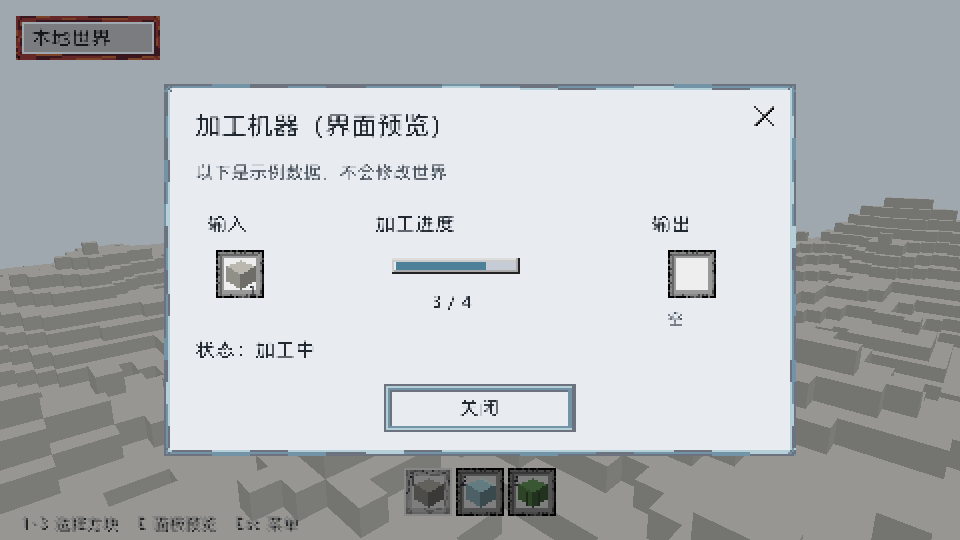
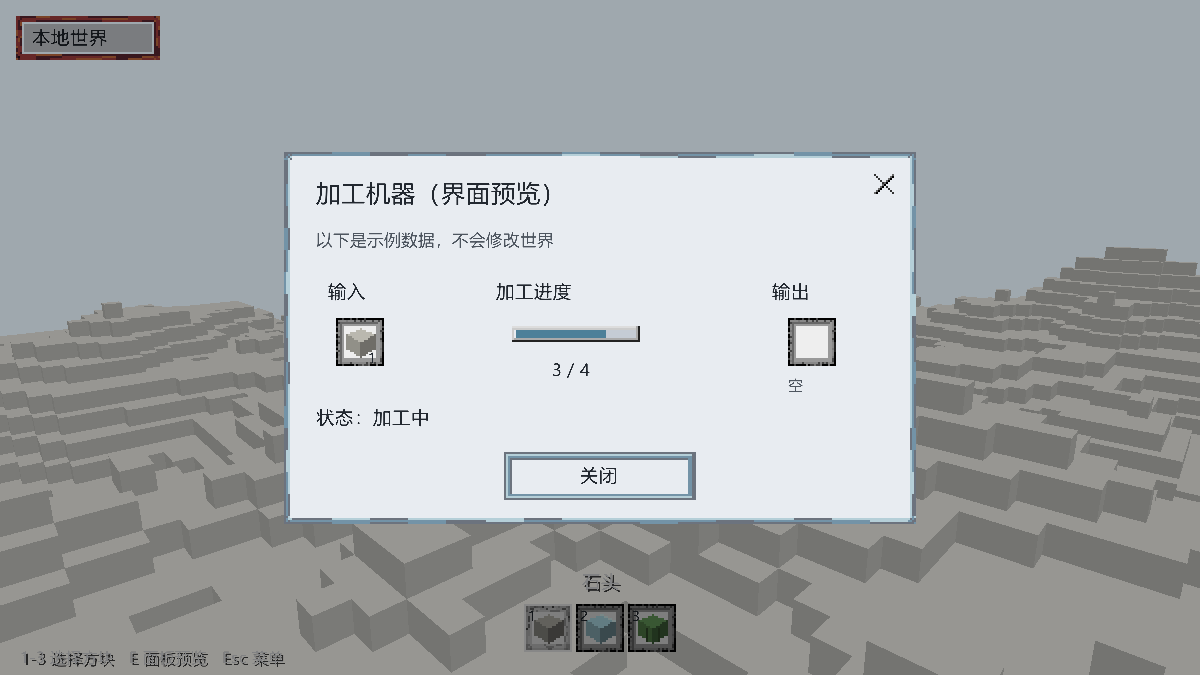
fix(client): rasterize the UI at native resolution
The UI canvas was logical (half or quarter the surface) magnified by the
GPU, so anti-aliased CJK glyphs turned to mush and sprites stayed chunky.
The canvas now matches the surface one to one: Canvas maps logical draw
rects onto scale-sized pixel blocks internally, glyphs rasterize at the
physical size through blend_px, and the overlay upload writes and
addresses the full physical extent -- the old write_texture size still
used the logical dims, which silently dropped every row past the first
logical block and left the bottom of the screen without UI. Doc figures
recaptured at 1200x675.

diff --git a/apps/client/src/ui/canvas.rs b/apps/client/src/ui/canvas.rs
@@ -61,24 +61,54 @@ impl Rect {
             && p[1] < self.y + self.h as i32
     }
 }
+/// Retained UI raster over physical pixels.
+///
+/// Draw calls take logical rects; every logical pixel lands as a
+/// `scale`x`scale` block so the nine-slice and fill math stay unchanged while
+/// the texture itself matches the surface one to one. Glyphs rasterize at the
+/// physical size and blend through [`Canvas::blend_px`], which keeps text
+/// crisp instead of magnifying anti-aliased logical pixels.
 pub struct Canvas {
+    /// Logical width; the pixel buffer is `width * scale` wide.
     pub width: u32,
+    /// Logical height.
     pub height: u32,
-    pub pixels: Vec<u8>,
+    /// Physical pixels per logical pixel.
+    pub scale: u32,
+    pixels: Vec<u8>,
 }
 impl Canvas {
-    pub fn new(width: u32, height: u32) -> Self {
+    pub fn new(width: u32, height: u32, scale: u32) -> Self {
+        let scale = scale.max(1);
         Self {
             width,
             height,
-            pixels: vec![0; (width * height * 4) as usize],
+            scale,
+            pixels: vec![0; (width * scale * height * scale * 4) as usize],
         }
     }
-    fn blend(&mut self, x: i32, y: i32, source: [u8; 4]) {
-        if x < 0 || y < 0 || x >= self.width as i32 || y >= self.height as i32 || source[3] == 0 {
+    /// Physical buffer width.
+    pub fn pixel_width(&self) -> u32 {
+        self.width * self.scale
+    }
+    /// Physical buffer height.
+    pub fn pixel_height(&self) -> u32 {
+        self.height * self.scale
+    }
+    /// Physical pixel bytes, for direct GPU upload.
+    pub fn as_pixels(&self) -> &[u8] {
+        &self.pixels
+    }
+    fn blend_px(&mut self, x: i32, y: i32, source: [u8; 4]) {
+        if x < 0
+            || y < 0
+            || x >= self.pixel_width() as i32
+            || y >= self.pixel_height() as i32
+            || source[3] == 0
+        {
             return;
         }
-        let i = ((y as u32 * self.width + x as u32) * 4) as usize;
+        let i = ((y as u32 * self.pixel_width() + x as u32) * 4) as usize;
         let dst = &mut self.pixels[i..i + 4];
         let sa = u32::from(source[3]);
         let da = u32::from(dst[3]);
@@ -88,6 +118,14 @@ impl Canvas {
                 ((u32::from(source[c]) * sa * 255 + u32::from(dst[c]) * da * (255 - sa)) / a) as u8;
         }
         dst[3] = a.div_ceil(255) as u8;
+    }
+    fn blend(&mut self, x: i32, y: i32, source: [u8; 4]) {
+        let s = self.scale as i32;
+        for dy in 0..s {
+            for dx in 0..s {
+                self.blend_px(x * s + dx, y * s + dy, source);
+            }
+        }
     }
     pub fn fill(&mut self, rect: Rect, color: [u8; 4]) {
         for y in rect.y.max(0)..(rect.y + rect.h as i32).min(self.height as i32) {
@@ -148,6 +186,8 @@ pub struct Text {
     font: FontVec,
     glyphs: BTreeMap<(char, u16), Raster>,
     pub chinese: bool,
+    /// Physical pixels per logical point of requested text size.
+    scale: u16,
 }
 impl Text {
     pub fn load() -> Result<Self, String> {
@@ -176,11 +216,17 @@ impl Text {
                     chinese: font.glyph_id('\u{52a0}').0 != 0,
                     font,
                     glyphs: BTreeMap::new(),
+                    scale: 1,
                 });
             }
         }
         Err("UI font unavailable; set TORSE_UI_FONT to a TTF, OTF or TTC file".into())
     }
+    /// Set the physical pixel multiplier for subsequent measure and draw.
+    pub fn set_scale(&mut self, scale: u16) {
+        self.scale = scale.max(1);
+    }
+
     fn raster(&mut self, c: char, size: u16) -> &Raster {
         if self.glyphs.len() >= 1024 {
             self.glyphs.clear();
@@ -224,11 +270,13 @@ impl Text {
         })
     }
     pub fn measure(&mut self, value: &str, size: u16) -> u32 {
-        value
+        let scaled = size.saturating_mul(self.scale);
+        let total: u32 = value
             .chars()
             .take(160)
-            .map(|c| self.raster(c, size).advance.max(0) as u32)
-            .sum()
+            .map(|c| self.raster(c, scaled).advance.max(0) as u32)
+            .sum();
+        total / u32::from(self.scale)
     }
     pub fn draw(
         &mut self,
@@ -238,23 +286,32 @@ impl Text {
         size: u16,
         color: [u8; 4],
     ) {
-        let mut x = rect.x;
+        let scale = u16::try_from(canvas.scale).unwrap_or(1).max(self.scale);
+        let scaled = size.saturating_mul(scale);
+        let s = i32::try_from(canvas.scale).unwrap_or(1);
+        let prect = Rect {
+            x: rect.x * s,
+            y: rect.y * s,
+            w: rect.w * canvas.scale,
+            h: rect.h * canvas.scale,
+        };
+        let mut x = prect.x;
         for c in value.chars().take(160) {
-            let glyph = self.raster(c, size);
-            if x + glyph.advance > rect.x + rect.w as i32 {
+            let glyph = self.raster(c, scaled);
+            if x + glyph.advance > prect.x + prect.w as i32 {
                 break;
             }
             for gy in 0..glyph.height {
                 for gx in 0..glyph.width {
-                    let y = rect.y + glyph.y + gy as i32;
-                    if y < rect.y || y >= rect.y + rect.h as i32 {
+                    let y = prect.y + glyph.y + gy as i32;
+                    if y < prect.y || y >= prect.y + prect.h as i32 {
                         continue;
                     }
                     let mut ink = color;
                     ink[3] = (u16::from(color[3])
                         * u16::from(glyph.pixels[(gy * glyph.width + gx) as usize])
                         / 255) as u8;
-                    canvas.blend(x + glyph.x + gx as i32, y, ink);
+                    canvas.blend_px(x + glyph.x + gx as i32, y, ink);
                 }
             }
             x += glyph.advance;
@@ -283,7 +340,7 @@ mod tests {
             ]
             .concat(),
         };
-        let mut canvas = Canvas::new(9, 9);
+        let mut canvas = Canvas::new(9, 9, 1);
         canvas.sprite(&sprite, Rect::new(0, 0, 9, 9), 1);
         assert_eq!(&canvas.pixels[..4], &[255, 0, 0, 255]);
         assert_eq!(&canvas.pixels[32..36], &[0, 0, 255, 255]);
@@ -297,8 +354,34 @@ mod tests {
             height: 1,
             pixels: [[255, 255, 255, 255]; 4].concat(),
         };
-        let mut canvas = Canvas::new(4, 1);
+        let mut canvas = Canvas::new(4, 1, 1);
         canvas.progress(&sprite, 0, 0, 0.5, [255; 4]);
         assert_eq!(canvas.pixels.iter().filter(|p| **p == 255).count(), 8);
+    }
+
+    #[test]
+    fn scaled_canvas_maps_logical_pixels_to_blocks() {
+        let mut canvas = Canvas::new(2, 1, 2);
+        assert_eq!(canvas.pixel_width(), 4);
+        assert_eq!(canvas.pixel_height(), 2);
+        canvas.fill(Rect::new(0, 0, 1, 1), [255, 0, 0, 255]);
+        // One logical pixel becomes a 2x2 block; the rest stays transparent.
+        assert_eq!(
+            canvas
+                .pixels
+                .chunks_exact(4)
+                .filter(|p| *p == [255, 0, 0, 255])
+                .count(),
+            4
+        );
+        // Row 0: the red block covers columns 0 and 1, columns 2 and 3 stay
+        // transparent; row 1 mirrors row 0.
+        assert_eq!(&canvas.pixels[..4], &[255, 0, 0, 255]);
+        assert_eq!(&canvas.pixels[4..8], &[255, 0, 0, 255]);
+        assert_eq!(&canvas.pixels[8..12], &[0, 0, 0, 0]);
+        assert_eq!(&canvas.pixels[12..16], &[0, 0, 0, 0]);
+        assert_eq!(&canvas.pixels[16..20], &[255, 0, 0, 255]);
+        assert_eq!(&canvas.pixels[20..24], &[255, 0, 0, 255]);
+        assert_eq!(&canvas.pixels[24..28], &[0, 0, 0, 0]);
     }
 }

diff --git a/apps/client/src/window.rs b/apps/client/src/window.rs
@@ -60,6 +60,9 @@ pub struct WindowConfig {
     pub walk: bool,
     /// Connect to a standalone server and mirror its authorized projection.
     pub connect: Option<String>,
+    /// Captured-look sensitivity multiplier; scroll steps multiply it in
+    /// walk mode.
+    pub sensitivity: f64,
     /// Send one edit request far outside the approved scope, for acceptance
     /// evidence that the server rejects out-of-scope targets.
     pub probe_outside: bool,
@@ -157,6 +160,7 @@ struct WindowApp {
     session: Option<u128>,
     grabbed: bool,
     last_cursor: Option<(f64, f64)>,
+    look_sensitivity: f64,
     probe_sent: bool,
     batches: u32,
     requests_sent: u32,
@@ -219,6 +223,7 @@ impl WindowApp {
             session: None,
             grabbed: false,
             last_cursor: None,
+            look_sensitivity: 1.0,
             probe_sent: false,
             batches: 0,
             requests_sent: 0,
@@ -1039,6 +1044,7 @@ impl ApplicationHandler for WindowApp {
             let eye = self.camera.as_ref().expect("camera was just installed").eye;
             self.enter_walk(eye);
         }
+        self.look_sensitivity = self.config.sensitivity;
         self.started = Some(Instant::now());
         self.fps_origin = Instant::now();
         // Capture the mouse right away; Esc opens the pause menu with the
@@ -1163,7 +1169,8 @@ impl ApplicationHandler for WindowApp {
                         let dx = position.x - last_x;
                         let dy = position.y - last_y;
                         if dx.abs() + dy.abs() > 0.0 {
-                            self.input.mouse_look(dx, dy);
+                            self.input
+                                .mouse_look(dx * self.look_sensitivity, dy * self.look_sensitivity);
                         }
                         // Recentre only on real drift; the hidden cursor may
                         // wander a little without anyone noticing.
@@ -1186,7 +1193,20 @@ impl ApplicationHandler for WindowApp {
                 }
             }
             WindowEvent::MouseWheel { delta, .. } => {
-                if !self.ui.modal() {
+                if !self.ui.modal() && self.walk {
+                    // Fly speed is meaningless on foot; the wheel tunes the
+                    // look sensitivity instead.
+                    let notches = match delta {
+                        winit::event::MouseScrollDelta::LineDelta(_, lines) => f64::from(lines),
+                        winit::event::MouseScrollDelta::PixelDelta(p) => p.y / 48.0,
+                    };
+                    if notches.is_finite() && notches != 0.0 {
+                        self.look_sensitivity = (self.look_sensitivity
+                            * 1.15f64.powf(notches.clamp(-8.0, 8.0)))
+                        .clamp(0.2, 5.0);
+                        self.last_result = format!("sens {:.2}", self.look_sensitivity);
+                    }
+                } else if !self.ui.modal() {
                     self.input.wheel(delta);
                 }
             }

diff --git a/apps/client/src/main.rs b/apps/client/src/main.rs
@@ -24,7 +24,7 @@ use window::{WindowConfig, run_window};
 
 const USAGE: &str = "usage: torse-client --capture <png> [--width N] [--height N] [--radius N] [--view overview|player]\n\
        torse-client --window [--width N] [--height N] [--radius N] [--frames N]\n\
-                        [--screenshot <png>] [--autoplay] [--ui-preview hud|pause|machine]";
+                        [--screenshot <png>] [--autoplay] [--sensitivity F] [--ui-preview hud|pause|machine]";
 
 fn main() -> ExitCode {
     let arguments: Vec<String> = std::env::args().skip(1).collect();
@@ -40,6 +40,7 @@ fn main() -> ExitCode {
     let mut autoplay = false;
     let mut walk = false;
     let mut connect: Option<String> = None;
+    let mut sensitivity = 1.0f64;
     let mut probe_outside = false;
     let mut ui_preview = None;
     let mut index = 0;
@@ -80,6 +81,7 @@ fn main() -> ExitCode {
             "--autoplay" => autoplay = true,
             "--walk" => walk = true,
             "--connect" => connect = value(),
+            "--sensitivity" => sensitivity = value().and_then(|v| v.parse().ok()).unwrap_or(1.0),
             "--probe-outside" => probe_outside = true,
             "--ui-preview" => match value().as_deref().map(ui::Mode::parse) {
                 Some(Ok(mode)) => ui_preview = Some(mode),
@@ -111,6 +113,7 @@ fn main() -> ExitCode {
             walk,
             connect,
             probe_outside,
+            sensitivity: sensitivity.clamp(0.2, 5.0),
             ui_mode: ui_preview.unwrap_or_default(),
         };
         match run_window(config) {

diff --git a/apps/client/src/ui/mod.rs b/apps/client/src/ui/mod.rs
@@ -238,6 +238,10 @@ impl Layer {
         hud: Hud<'_>,
     ) {
         let layout = Layout::new(size);
+        eprintln!(
+            "ui prepare: size={size:?} scale={} logical={}x{} mode={:?}",
+            layout.scale, layout.width, layout.height, state.mode
+        );
         let view = View {
             size,
             mode: state.mode,
@@ -248,12 +252,12 @@ impl Layer {
             hover: layout.hit(state.mode, state.cursor),
             pressed: state.armed,
         };
-        if self.last.as_ref() == Some(&view) {
-            return;
-        }
-        let mut canvas = Canvas::new(layout.width, layout.height);
+
+        let mut canvas = Canvas::new(layout.width, layout.height, layout.scale);
         self.paint(&mut canvas, &layout, &view);
-        self.overlay.upload(device, queue, &canvas, layout.scale);
+        // The canvas already matches the surface one to one; the shader
+        // must not divide again.
+        self.overlay.upload(device, queue, &canvas, 1);
         self.last = Some(view);
     }
     pub fn draw(&self, encoder: &mut wgpu::CommandEncoder, target: &wgpu::TextureView) {
@@ -274,6 +278,7 @@ impl Layer {
         self.label(canvas, key, rect, size, [245, 247, 250, 255]);
     }
     fn paint(&mut self, c: &mut Canvas, l: &Layout, v: &View) {
+        self.text.set_scale(u16::try_from(c.scale).unwrap_or(1));
         let w = l.width as i32;
         let h = l.height as i32;
         let slot_x = w / 2 - 38;

diff --git a/apps/client/src/ui/gpu.rs b/apps/client/src/ui/gpu.rs
@@ -138,8 +138,10 @@ impl Overlay {
         })
     }
     pub fn upload(&mut self, device: &Device, queue: &Queue, canvas: &Canvas, scale: u32) {
-        if self.image.width() != canvas.width || self.image.height() != canvas.height {
-            self.image = Self::texture(device, canvas.width, canvas.height);
+        let pixel_width = canvas.pixel_width();
+        let pixel_height = canvas.pixel_height();
+        if self.image.width() != pixel_width || self.image.height() != pixel_height {
+            self.image = Self::texture(device, pixel_width, pixel_height);
             self.binding = Self::bind(device, &self.layout, &self.image, &self.params);
         }
         let mut params = [0; 16];
@@ -152,15 +154,15 @@ impl Overlay {
                 origin: Origin3d::ZERO,
                 aspect: TextureAspect::All,
             },
-            &canvas.pixels,
+            canvas.as_pixels(),
             TexelCopyBufferLayout {
                 offset: 0,
-                bytes_per_row: Some(canvas.width * 4),
-                rows_per_image: Some(canvas.height),
+                bytes_per_row: Some(pixel_width * 4),
+                rows_per_image: Some(pixel_height),
             },
             Extent3d {
-                width: canvas.width,
-                height: canvas.height,
+                width: pixel_width,
+                height: pixel_height,
                 depth_or_array_layers: 1,
             },
         );
